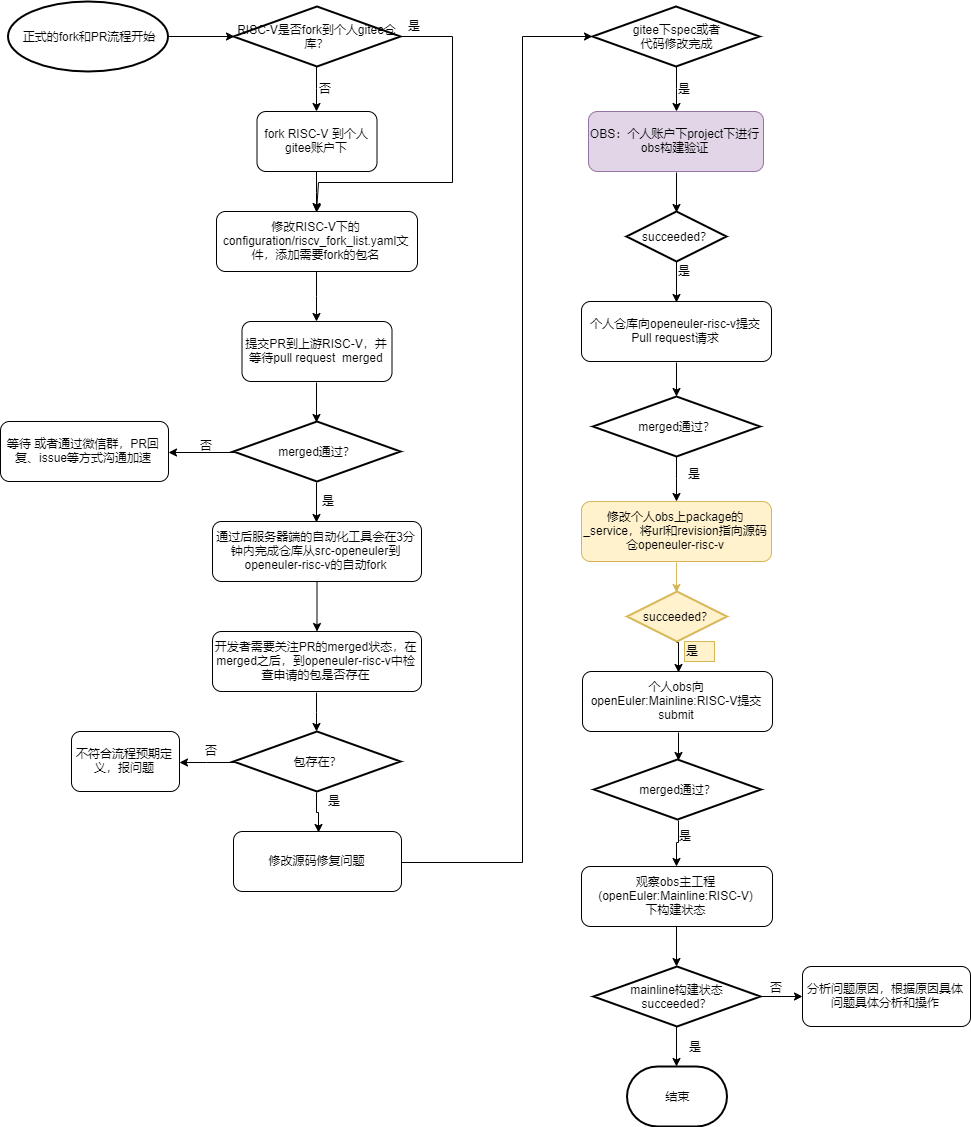
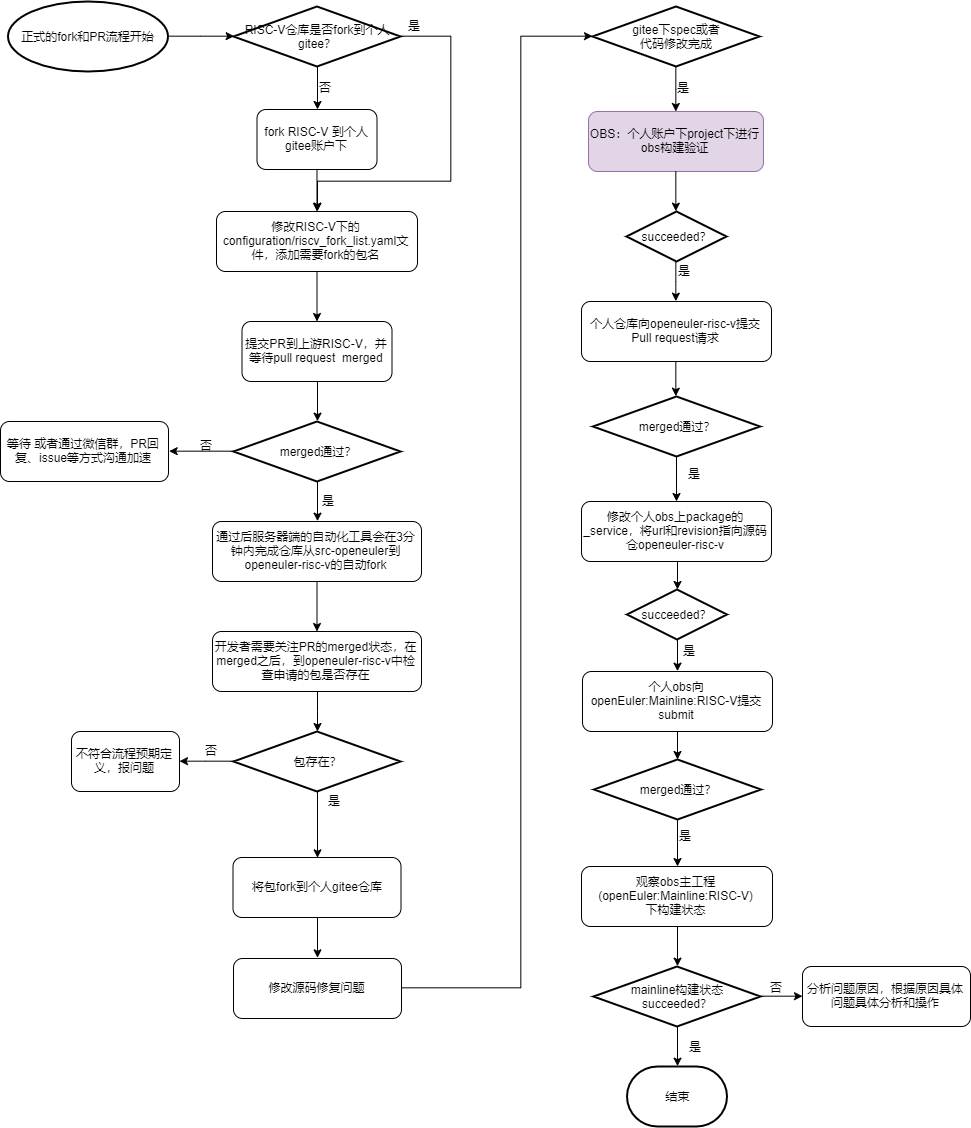
img

diff --git a/quicklystartbuild/obs-help.md b/quicklystartbuild/obs-help.md
@@ -96,3 +96,103 @@
 
 
 查看具体的修改内容，无问题后，点【Accept request】接受submit请求，完成合并；如需拒绝可以点【Decline request】；
+
+
+
+
+
+### 创建一个新的project
+
+![image-20211027202630400](images/image-20211027202630400.png)
+
+![image-20211027202713433](images/image-20211027202713433.png)
+
+
+
+
+
+### 添加一个包-新建
+
+1. 先进入一个project
+2. 点击【Create Package】创建一个package
+
+
+
+
+
+![image-20211027202932903](images/image-20211027202932903.png)
+
+
+
+![image-20211027203054908](images/image-20211027203054908.png)
+
+
+
+![image-20211027203154409](images/image-20211027203154409.png)
+
+
+
+![image-20211027203334846](images/image-20211027203334846.png)
+
+
+
+如果只提供文件名，则创建一个空文件(触摸)。  
+
+src url。 RPM文件将被提取。 git存储库的url将被存储在一个tar球中。  
+
+
+
+点击【save】后，obs会根据_service中的url和revision信息去git源码仓中拉取源文件，并自动开始build。
+
+
+
+### 添加一个包-从别的工程中branch
+
+
+
+![image-20211027203807451](images/image-20211027203807451.png)
+
+
+
+### 如何创建一个rpm仓库
+
+#### 1. 
+
+![image-20211027203845671](images/image-20211027203845671.png)
+
+
+
+
+
+![image-20211027204106189](images/image-20211027204106189.png)
+
+
+
+![image-20211027204518120](images/image-20211027204518120.png)
+
+![image-20211027204553466](images/image-20211027204553466.png)
+
+![image-20211027204611917](images/image-20211027204611917.png)
+
+
+
+#### 2.
+
+![image-20211027210105736](images/image-20211027210105736.png)
+
+
+
+![image-20211027205900787](images/image-20211027205900787.png)
+
+
+
+### 给仓库添加依赖仓
+
+![image-20211027204806291](images/image-20211027204806291.png)
+
+![image-20211027204844147](images/image-20211027204844147.png)
+
+
+
+![image-20211027204906139](images/image-20211027204906139.png)
+

diff --git a/quicklystartbuild/introduction1.md b/quicklystartbuild/introduction1.md
@@ -1,0 +1,53 @@
+# 了解项目
+## 项目简介
+openEuler RISCV 是开源操作系统openEuler下的一个子工程，目的是让openEuler操作系统能够在RISC-V精简指令集硬件架构上运行。
+openEuler riscv64与x86_64、aarch64是openEuler总工程下的不同的子工程（Project）；
+
+本文档中描述的项目主体默认情况下全部都是openEuler riscv64；
+
+
+
+
+## 项目现状
+### 发展历史
+这是openEuler RISCV SIG成立以来的一个发展图：
+
+![image-20211021161138781](images/image-20211021161138781.png)
+
+
+
+
+
+
+
+### 版本发布计划
+
+下图是openEuler riscv的一个版本发布历史和规划：
+
+- 半年发布一个创新版本：维护周期半年
+- 2年发布一个商用版本（LTS）：维护周期4年；下游的OSV厂商基于LTS版本去做发行版提供给客户；
+
+![image-20211021161421198](images/image-20211021161421198.png)
+
+
+
+### 项目现状与主要任务
+#### 项目现状：
+
+- 当前openeuler（指x86和arm版本）已经发布的最新的创新版本为openEuler 21.09；
+- 下一个发布版本是2022年3月发布的openEuler 22.03版本。
+
+
+
+**openEuler riscv 22.03版本要支持的内容（我们要实现的阶段性目标）：**
+
+1. 【已完成】Kernel 同步到5.10
+1. 【重点，进行中】 Packages 支持
+   - 数量上：支持3000+
+   - 功能上：支持xfce桌面
+1. 【重点，与2同步】将openEuler riscv的版本更新到最新的openEuler版本（这里的openEuler版本指的是x86、aarch64的最新版本。因为openEuler在riscv64、x86、aarch64等不同架构上，按照上游总工程的设计理念是**代码归一、同架构二进制归一**）
+1. 【重要】支持UI：当前项目定义支持xfce
+1. 【重要】支持更多的硬件：D1为当前默认测试开发板（因为有开发板可用）
+1. docker image等其它
+
+

diff --git a/quicklystartbuild/obs.md b/quicklystartbuild/obs.md
@@ -1,0 +1,55 @@
+![image-20211027202351481](images/image-20211027202351481.png)
+
+
+
+![image-20211027195845412](images/image-20211027195845412.png)
+
+
+
+
+
+![image-20211027200039611](images/image-20211027200039611.png)
+
+
+
+### 问题
+
+
+
+#### [openEuler:selfbuild:function](https://build.openeuler.org/project/show/openEuler:selfbuild:function) 这个工程一个包都没有，是干什么用的？
+
+![image-20211027201821594](images/image-20211027201821594.png)
+
+
+
+![image-20211027201836456](images/image-20211027201836456.png)
+
+
+
+![image-20211027201857832](images/image-20211027201857832.png)
+
+[openEuler:selfbuild:function](https://build.openeuler.org/project/show/openEuler:selfbuild:function) 这个工程创建的目的主要不是用来管理包的构建的，而是通过Repositories的仓库定义和管理来汇总我们的仓库，目的是用于在协助的过程中与华为的依赖仓文件目录进行同步。（上图中的本质都是目录或者说仓库）
+
+
+
+
+
+#### 各依赖仓都是干啥的？
+
+![image-20211027210635327](images/image-20211027210635327.png)
+
+https://build.openeuler.org/repositories/openEuler:selfbuild:function
+
+
+
+![image-20211027212126776](images/image-20211027212126776.png)
+
+
+
+### 查看obs构建服务器使用情况
+
+
+
+![image-20211027213201668](images/image-20211027213201668.png)
+
+![image-20211027213314404](images/image-20211027213314404.png)

diff --git a/quicklystartbuild/welcome.md b/quicklystartbuild/welcome.md
@@ -26,7 +26,9 @@
 
   >  OBS构建工程中所有软件包的源码来之源码仓
 
+- openEuler riscv源码仓：https://gitee.com/openeuler-risc-v
 
+  > openEuler riscv源码仓是为了加速riscv pull request审核流程而设置的一个中间仓库，用于维护在openeuler riscv构建环境下需要维护的源码包。（需要修改的才放这里，不需要修改的依然使用src-openeuler源码仓的源码）
 
 - [gitee上openEuler RISC-V SIG 管理的仓库](https://gitee.com/openeuler/RISC-V) : https://gitee.com/openeuler/RISC-V 
 
